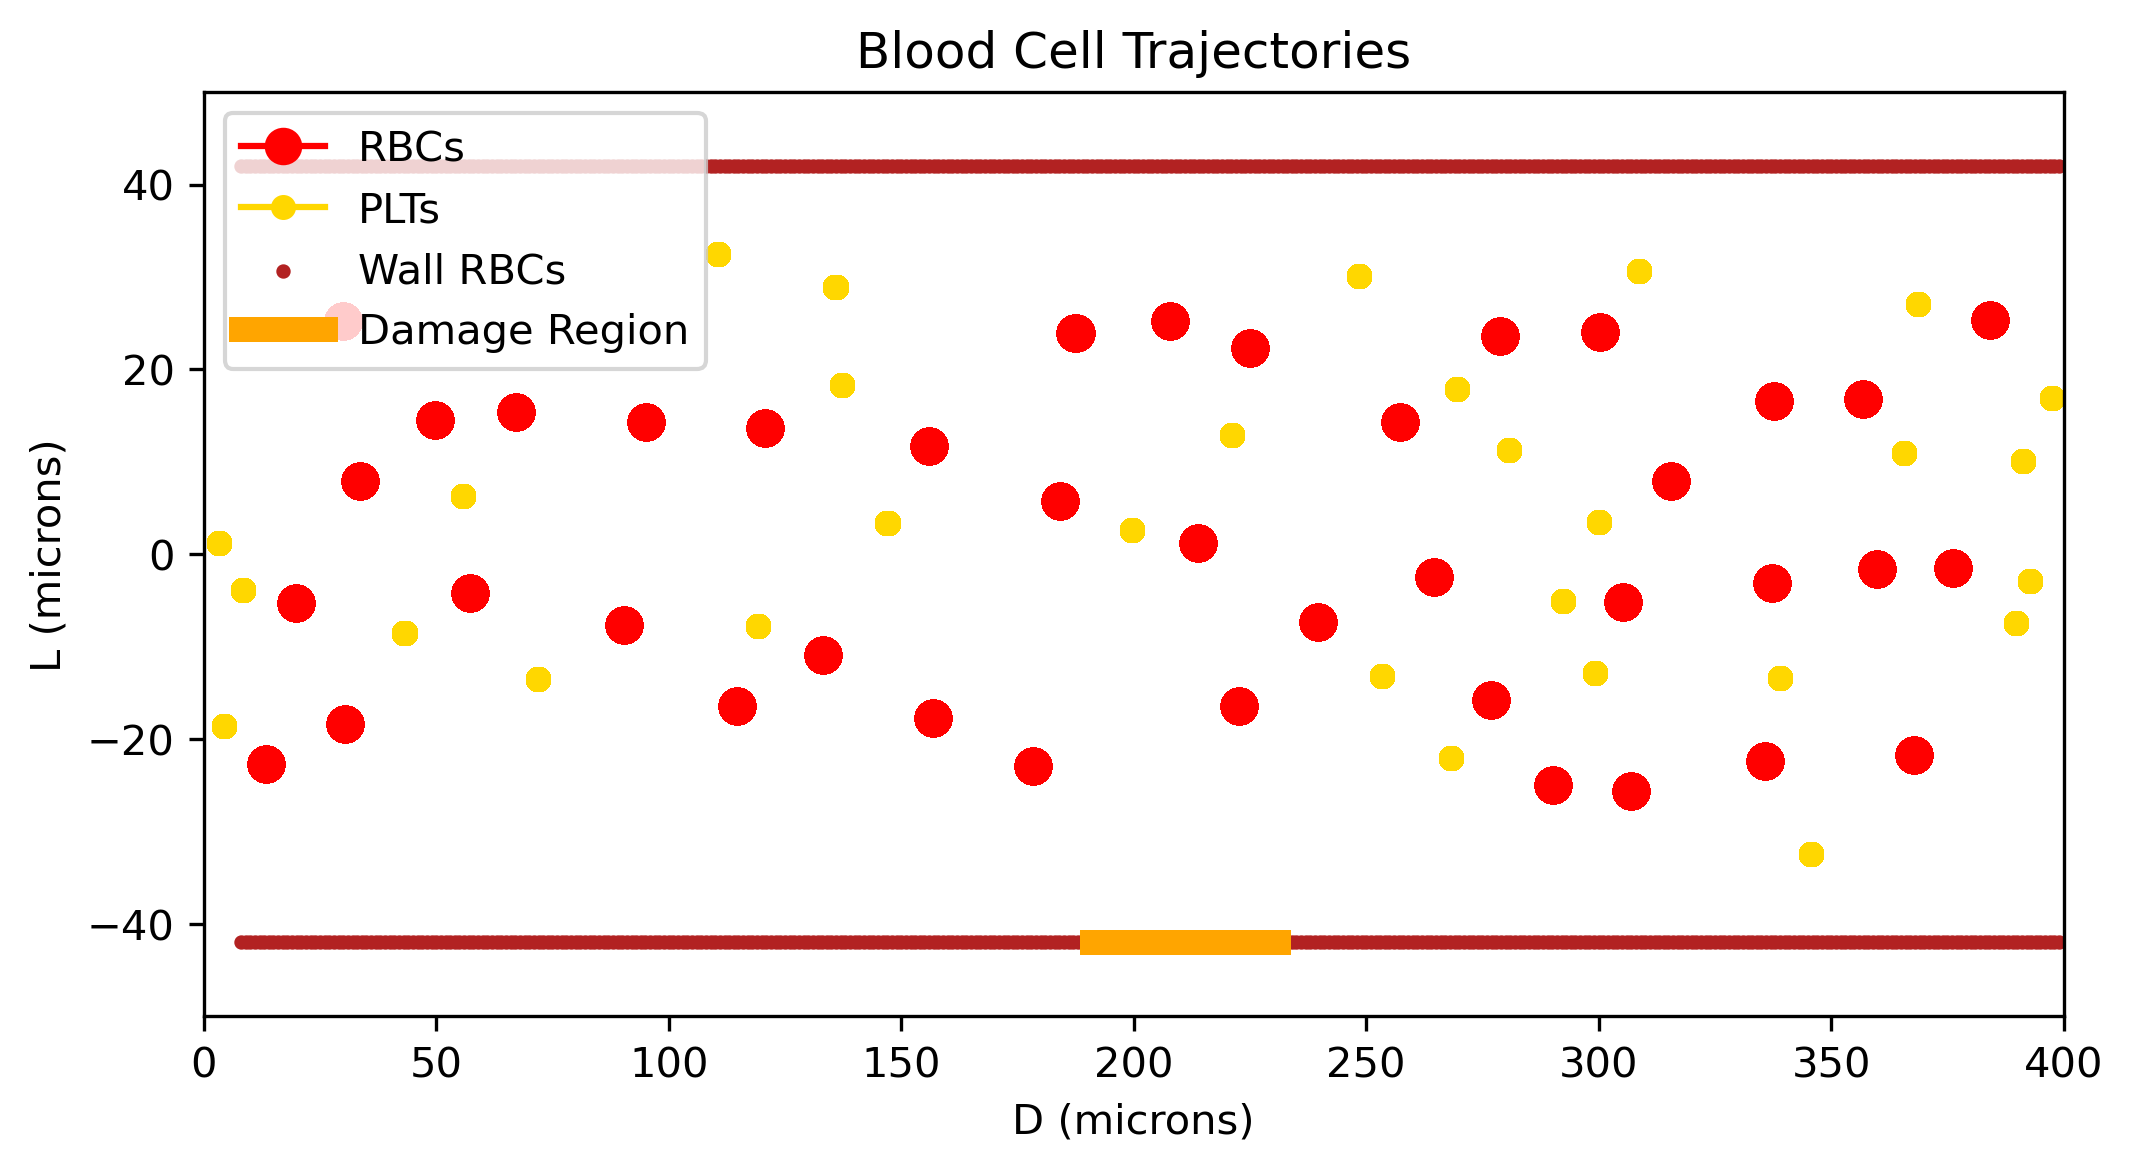
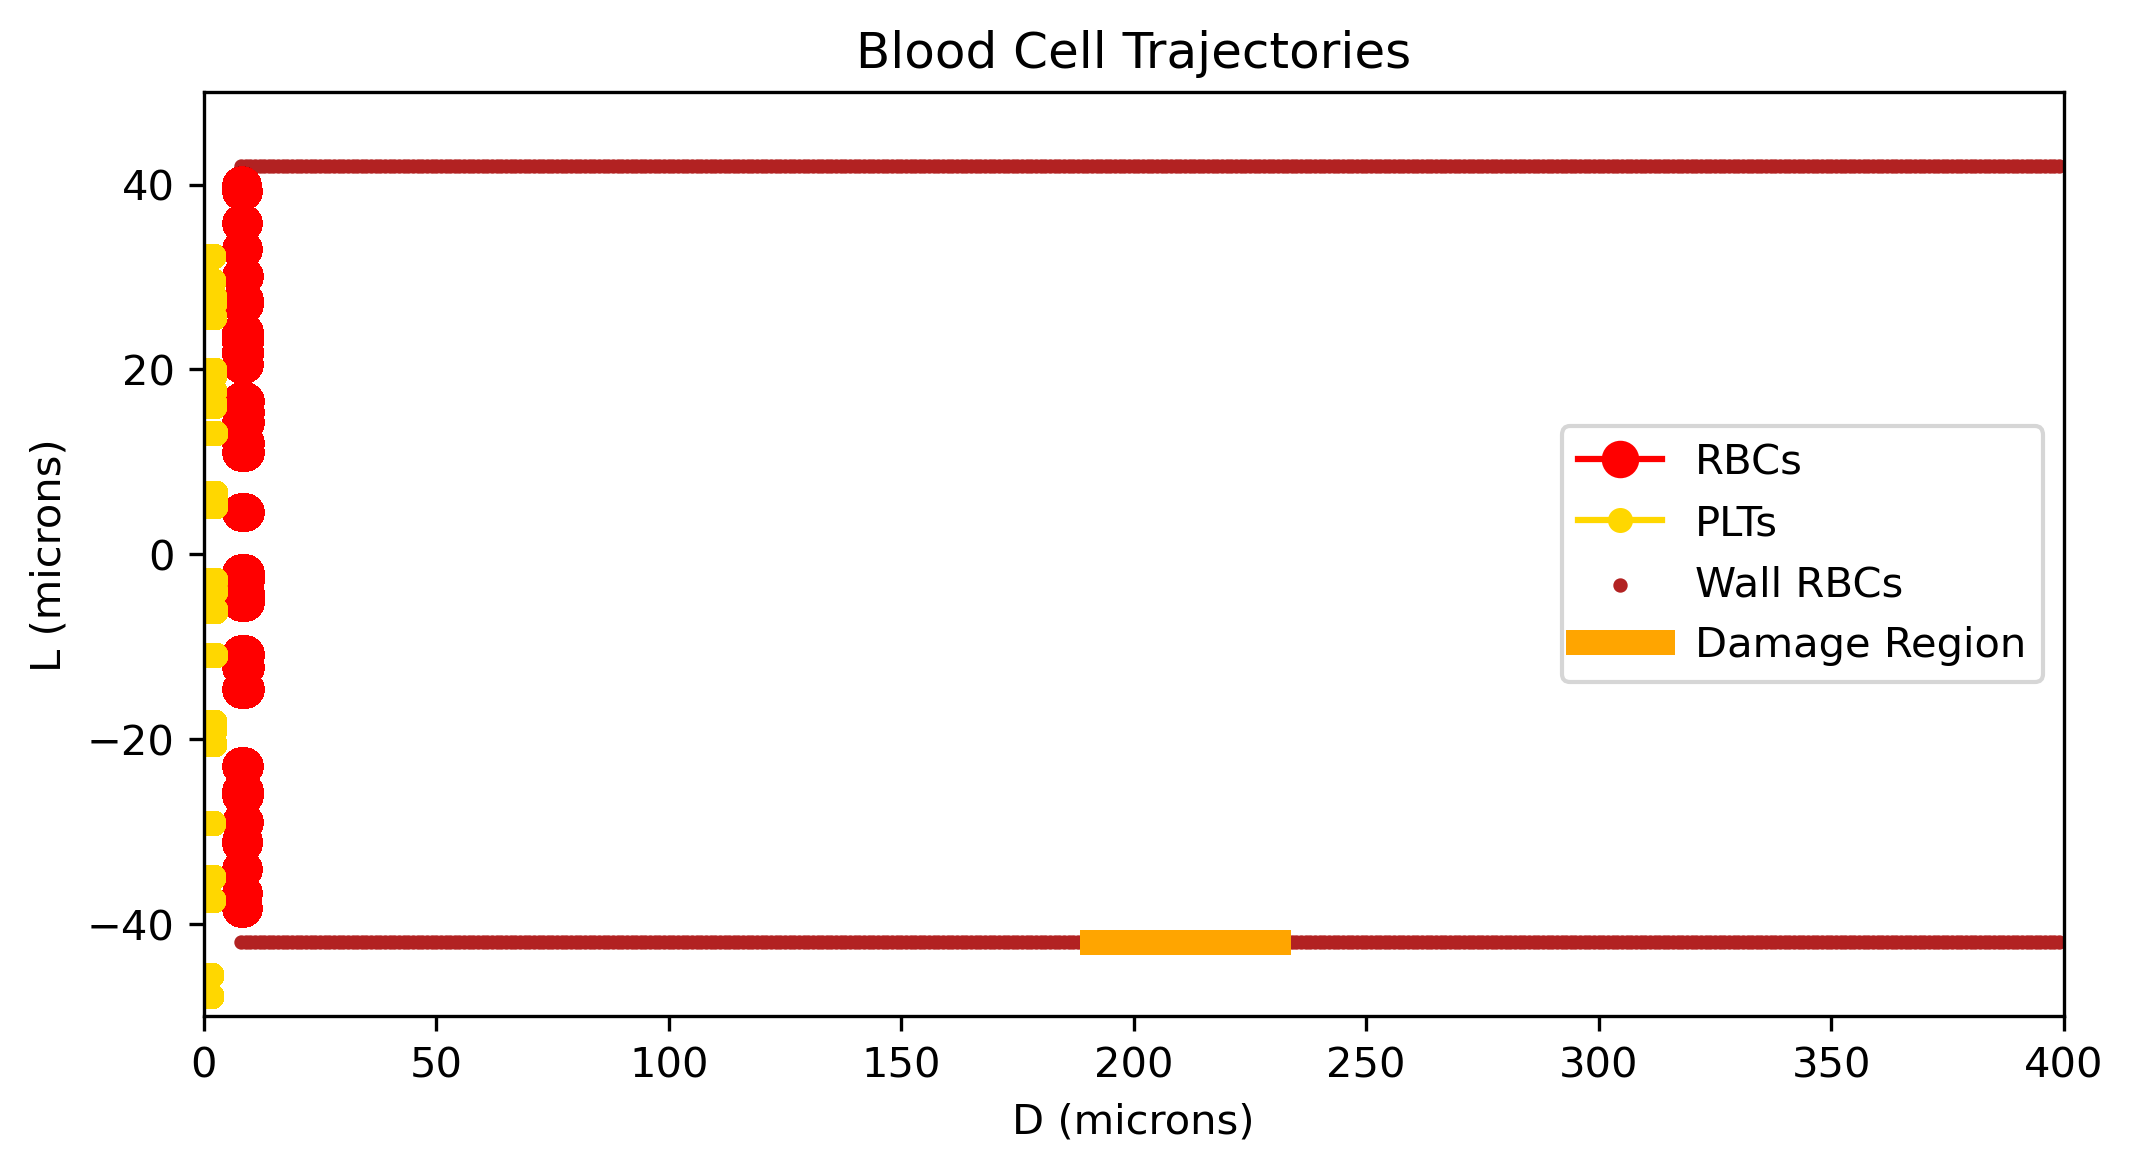
modified timestep for proper, representation of velocity profile

diff --git a/BloodClotting/run_model.py b/BloodClotting/run_model.py
@@ -12,32 +12,30 @@ from assets.model_functions import (
     make_plt_population,
     make_rbc_population,
     make_wall_rbc_particles,
-    sample_non_overlapping_positions,
     update_particles_with_contact,
 )
 
-# Parameters for the RBCs and PLTs
-rbc_radius = 8.0  # microns
-rbc_mass = 1.1  # nanograms
-plt_radius = 1.5  # microns
-plt_mass = 0.0124  # nanograms
+#Parameters for the RBCs and PLTs
+rbc_radius = 8.0  #microns
+rbc_mass = 1.1  #nanograms
+plt_radius = 1.5  #microns
+plt_mass = 0.0124  #nanograms
 
-n_rbcs = 40  # number of RBCs to simulate
-n_plts = 30  # number of platelets to simulate
-rng_seed = 42  # seed for reproducibility
-k_contact = 0.1  # repulsive contact spring stiffness
+n_rbcs = 40  #number of RBCs to simulate
+n_plts = 30  #number of platelets to simulate
+rng_seed = 42  #seed for reproducibility
+k_contact = 0.1  #repulsive contact spring stiffness
 
 # Time stepping for the simulation
-dt = 1e-6  # time step in seconds
-n_steps = 1000  # number of simulation steps to run
+dt = 1e-6  #time step in seconds
+n_steps = 10000  #number of simulation steps to run
 
 # Vessel and flow parameters
-L = 400  # length of the vessel in microns
-D = 100  # diameter of the vessel in microns
-R = D / 2  # radius of the vessel in microns
-mu = 0.012 * 1e5  # plasma viscosity in ng / (micron * s)
-V_max = 1.0 * 1000  # maximum plasma velocity in microns / s
-
+L = 400  #length of the vessel in microns
+D = 100  #diameter of the vessel in microns
+R = D / 2  #radius of the vessel in microns
+mu = 0.012 * 1e5  #plasma viscosity in ng / (micron * s)
+V_max = 1.0 * 1000  #maximum plasma velocity in microns / s
 #Random damage region position generato between the bounds of the vessel:
 random_region= np.random.default_rng(rng_seed).uniform(0.45, 0.55) * L
 damage_region = {
@@ -54,28 +52,31 @@ wall_particles = make_wall_rbc_particles(L, R, rbc_radius, rbc_mass)
 upper_bound_RBC = R - rbc_radius
 lower_bound_RBC = -R + rbc_radius
 
-rbc_positions = sample_non_overlapping_positions(n_rbcs,rbc_radius,(rbc_radius, L - rbc_radius),(lower_bound_RBC, upper_bound_RBC),rng,existing_particles=wall_particles,)
-rbc_particles = make_rbc_population(rbc_radius, rbc_mass, rbc_positions, velocity=[10.0, 0.0])
+rbc_positions = [
+    [rbc_radius, rng.uniform(lower_bound_RBC, upper_bound_RBC)]
+    for _ in range(n_rbcs)
+]
+rbc_particles = make_rbc_population(rbc_radius, rbc_mass, rbc_positions, velocity=[0.0, 0.0])
 
 #Random initial platelet positions inside the vessel bounds
 plt_particles = []
 if n_plts > 0:
-    plt_positions = sample_non_overlapping_positions(n_plts,plt_radius,(plt_radius, L - plt_radius),(lower_bound_RBC, upper_bound_RBC),
-        rng,
-        existing_particles=wall_particles + rbc_particles,
-    )
+    plt_positions = [
+        [plt_radius, rng.uniform(-R + plt_radius, R - plt_radius)]
+        for _ in range(n_plts)
+    ]
     plt_particles = make_plt_population(plt_radius, plt_mass, plt_positions)
 
 #Combine RBC and PLT particles into a single list for the simulation
 particles = rbc_particles + plt_particles
 
-# Use a timestep smaller than the fastest drag relaxation timescale
+#Use a timestep smaller than the fastest drag relaxation timescale
 if particles:
     min_relaxation_time = min(drag_relaxation_time(particle, mu) for particle in particles)
     dt = min(dt, 0.05 * min_relaxation_time)
     print(f"Using dt = {dt:.3e} s")
 
-# Run the simulation and store particle position history
+#Run the simulation and store particle position history
 position_history = [[] for _ in particles]
 for step in range(n_steps):
     update_particles_with_contact(particles, wall_particles, dt, mu, R, V_max, k_contact)
@@ -83,7 +84,7 @@ for step in range(n_steps):
     for index, particle in enumerate(particles):
         position_history[index].append(particle["pos"].copy())
 
-    if step % 100 == 0:
+    if step % 1000 == 0:
         print(f"Step {step}:")
         for index, particle in enumerate(particles):
             print(f"  {particle['kind']} {index}: position = {particle['pos']}, " f"velocity = {particle['vel']}")
@@ -173,7 +174,6 @@ def update(frame):
     ax.set_title(f"Blood Cell Animation - Step {frame}")
 
     return rbc_scatter, plt_scatter, wall_scatter
-
 
 animation = FuncAnimation(fig, update, frames=range(0, n_steps, 10), interval=50, blit=False)
 save_path = os.path.join("figs", "Blood_Cell_Animation.gif")
